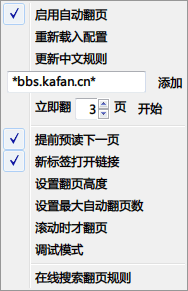
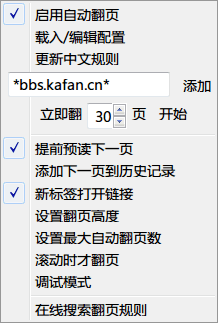
大幅补充说明，新增 "添加下一页到历史记录"

diff --git a/uAutoPagerize2/uAutoPagerize2.uc.js b/uAutoPagerize2/uAutoPagerize2.uc.js
@@ -58,8 +58,7 @@ var EXCLUDE = [
     '*://www.dropbox.com/*',
     '*://www.toodledo.com/*',
     '*://www.wumii.com/*',
-    'http://www.cnbeta.com/*',
-    '*/archives/*'
+    'http://www.cnbeta.com/*'
 ];
 
 var MY_SITEINFO = [
@@ -257,6 +256,12 @@ var ns = window.uAutoPagerize = {
         if (m) m.setAttribute("checked", PRELOADER_NEXTPAGE = !!bool);
         return bool;
     },
+    get ADD_TO_HISTORY() ADD_TO_HISTORY,
+    set ADD_TO_HISTORY(bool) {
+        let m = $("uAutoPagerize-ADD_TO_HISTORY");
+        if (m) m.setAttribute("checked", ADD_TO_HISTORY = !!bool);
+        return bool;
+    },
 
     init: function() {
         ns.style = addStyle(css);
@@ -289,7 +294,7 @@ var ns = window.uAutoPagerize = {
                           checked="'+ AUTO_START +'"\
                           oncommand="uAutoPagerize.toggle(event);"/>\
                 <menuitem label="载入/编辑配置"\
-                          tooltiptext="左键载入配置，中键编辑中文规则，右键编辑配置文件"\
+                          tooltiptext="左键载入配置，右键编辑配置文件和中文规则文件"\
                           onclick="uAutoPagerize.reloadMenuClick(event);"/>\
                 <menuitem label="更新中文规则" \
                           tooltiptext="包含 Super_preloader 的中文规则"\
@@ -314,6 +319,12 @@ var ns = window.uAutoPagerize = {
                           autoCheck="false"\
                           checked="'+ PRELOADER_NEXTPAGE +'"\
                           oncommand="uAutoPagerize.PRELOADER_NEXTPAGE = !uAutoPagerize.PRELOADER_NEXTPAGE;"/>\
+                <menuitem label="添加下一页到历史记录"\
+                          id="uAutoPagerize-ADD_TO_HISTORY"\
+                          type="checkbox"\
+                          autoCheck="false"\
+                          checked="'+ ADD_TO_HISTORY +'"\
+                          oncommand="uAutoPagerize.ADD_TO_HISTORY = !uAutoPagerize.ADD_TO_HISTORY;"/>\
                 <menuitem label="新标签打开链接"\
                           tooltiptext="下一页的链接设置成在新标签页打开"\
                           id="uAutoPagerize-FORCE_TARGET_WINDOW"\
@@ -502,6 +513,7 @@ var ns = window.uAutoPagerize = {
 
         // 替换 unsafeWindow
         data = data.replace(/unsafeWindow/g, "this.wrappedJSObject")
+        data = data.replace(/window/g, "this")
 
         try {
             Cu.evalInSandbox(data, sandbox, '1.8');
@@ -522,7 +534,8 @@ var ns = window.uAutoPagerize = {
             };
 
             if (info.autopager) {
-                ["pageElement", "useiframe", "newIframe", "iloaded", "itimeout", "documentFilter", "filter"].forEach(function(name){
+                ["pageElement", "useiframe", "newIframe", "iloaded", "itimeout", "documentFilter", "filter", 
+                    "startFilter"].forEach(function(name){
                     if(info.autopager[name]){
                         newInfo[name] = info.autopager[name];
                     }
@@ -794,9 +807,8 @@ var ns = window.uAutoPagerize = {
                 ns.loadSetting_CN();
                 break;
             case 1:
-                ns.edit(ns.file_CN);
-                break;
             case 2:
+                ns.edit(ns.file_CN);
                 ns.edit(ns.file);
                 event.preventDefault();
                 break;

diff --git a/uAutoPagerize2/README.md b/uAutoPagerize2/README.md
@@ -1,24 +1,156 @@
 uAutoPagerize2.uc.js
 ====================
 
-uAutoPagerize 中文规则简化改进版。
+uAutoPagerize 中文规则简化改进版。跟 [uAutoPagerize](../uAutoPagerize) 比
 
- - 基于日文原版重新改写，重点在**简化**。
+ - 基于日文原版重新改写。
  - **中文规则数据库**为：[Super_preloaderPlus_one for Greasemonkey](http://userscripts.org/scripts/show/178900)，这是我用于其它浏览器的翻页脚本 + 数据库。
- - **按钮默认位置**为状态栏，不可移动，也不会有按钮找不到的问题。
- - 文件 _uAutoPagerize.js 是自己的配置文件。但里面的 EXCLUDE（黑名单）已经不可用，改在右键菜单里设置。
- - [uAutoPagerizeUI](uAutoPagerizeUI)：图形管理规则，待完善。
+ - **按钮默认位置**为状态栏（可改为地址栏），不可移动，也不会有按钮找不到的问题。
+ - 新增 `添加下一页到历史记录`。
+ - 配置文件的 EXCLUDE（黑名单）已经不可用，改在右键菜单里设置，存储在 about:config 中。
+ - 无多功能的分隔条，无强制翻页（功能的实现不完美），SITEINFO_Writer.uc.js 可能有问题（我已经不再使用）。
 
 ### 右键菜单
 
 ![右键菜单](右键菜单.png)
 
-### 使用技巧和说明
+### 分隔条
 
- - 文件 _uAutoPagerize.js 为自定义配置文件，自定义规则放在这里。
- - 文件 uSuper_preloader.db.js 为中文规则数据库文件，会被下载替换。
- - 鼠标中键点击按钮同时载入配置文件和中文规则数据库文件。
+![分隔条](分隔条.png)
+	
+使用技巧和说明
+--------------
 
-### 一些可能的问题
+- 文件 *_uAutoPagerize.js* 为自定义配置文件，自定义规则放在这里。
+- 文件 *uSuper_preloader.db.js* 为中文规则数据库文件，会被下载替换。
+- 鼠标中键点击图标会同时载入配置文件和中文规则数据库文件。
+- 如果配置文件修改了，刷新页面会重新载入。
 
- - 百度无法翻页，清除 cookie
+### 其它说明
+
+- 百度如果无法翻页，请清除 cookie
+- [uAutoPagerizeUI](uAutoPagerizeUI)：图形管理规则，待完善。
+
+手势调用（FireGestures）
+-----------------------
+
+#### 启用禁用
+
+```js
+	uAutoPagerize.toggle()
+```
+
+#### 立即加载3页
+
+```js
+	var node = FireGestures.sourceNode;
+	var doc = node.ownerDocument || getBrowser().contentDocument;
+	var win = doc.defaultView;
+
+	if(win.ap)
+	    win.ap.loadImmediately(3);
+```
+
+### 增强型后退，没前进翻到上一页
+
+```js
+	var doc = FireGestures.sourceNode.ownerDocument;
+	var win = doc.defaultView;
+	
+	// 删除下面这部分（到空行为止） 则为普通的上一页
+	var nav = gBrowser.webNavigation;
+	if (nav.canGoBack) {
+	    nav.goBack();
+	    return;
+	}
+	
+	if (win.uSuper_preloader) {
+		win.uSuper_preloader.back();
+	} else if (window.nextPage) {  // nextPage.uc.js
+		window.nextPage.next();
+	} else {
+		SuperPreloaderPrevPage();
+	}
+
+	// SuperPreloader 脚本的上一页
+	function SuperPreloaderPrevPage(){
+	    var event = doc.createEvent('HTMLEvents');
+	    event.initEvent('superPreloader.back', true, false);
+	    doc.dispatchEvent(event);
+	}
+```
+
+### 增强型前进，没前进翻到下一页
+
+```js
+	var doc = FireGestures.sourceNode.ownerDocument;
+	var win = doc.defaultView;
+	
+	// 删除下面这部分（到空行为止） 则为普通的下一页
+	var nav = gBrowser.webNavigation;
+	if (nav.canGoForward) {
+	    nav.goForward();
+	    return;
+	}
+
+	if (win.ap && win.ap.requestURL) {
+	    win.location = win.ap.requestURL;
+	} else if (win.uSuper_preloader) {
+	    win.uSuper_preloader.go();
+	} else if (window.nextPage) {  // nextPage.uc.xul
+	    nextPage.next(true);
+	} else {
+		SuperPreloaderNextPage();
+	}
+
+	// SuperPreloader 脚本的下一页
+	function SuperPreloaderNextPage(){
+	    var event = doc.createEvent('HTMLEvents');
+	    event.initEvent('superPreloader.go', true, false);
+	    doc.dispatchEvent(event);
+	}
+```
+
+#### 向上滚一页（5合1）
+
+依次查找：uAutoPagerize、uSuper_preloader.uc.js、小说阅读脚本、Super_preloader 脚本、FireGestures滚到底部。
+
+```js
+	var srcNode = FireGestures.sourceNode;
+	var doc = srcNode.ownerDocument || getBrowser().contentDocument;
+	var win = doc.defaultView;
+
+	if (win.ap) {
+	    uAutoPagerize.gotoprev(win);
+	} else if (win.uSuper_preloader) {
+	    win.uSuper_preloader.goPre();
+	} else if (uAutoPagerize && doc.body && doc.body.getAttribute("name") == "MyNovelReader") { // 小说阅读脚本
+	    uAutoPagerize.gotoprev(win, ".title");
+	} else if (doc.getElementById("sp-fw-container")) { // Super_preloader 脚本版
+	    uAutoPagerize.gotoprev(win, ".sp-separator");
+	} else {
+	    FireGestures._performAction(event, "FireGestures:ScrollTop");
+	}
+```
+
+#### 向下滚一页（5合1）
+
+同上
+
+```js
+	var srcNode = FireGestures.sourceNode;
+	var doc = srcNode.ownerDocument || getBrowser().contentDocument;
+	var win = doc.defaultView;
+
+	if (win.ap) {
+	    uAutoPagerize.gotonext(win);
+	} else if (win.uSuper_preloader) {
+	    win.uSuper_preloader.goNext();
+	} else if (uAutoPagerize && doc.body && doc.body.getAttribute("name") == "MyNovelReader") { // 小说阅读脚本
+	    uAutoPagerize.gotonext(win, ".title");
+	} else if (doc.getElementById("sp-fw-container")){  // Super_preloader 脚本版
+	    uAutoPagerize.gotonext(win, ".sp-separator");
+	} else {
+	    FireGestures._performAction(event, "FireGestures:ScrollBottom");
+	}
+```
